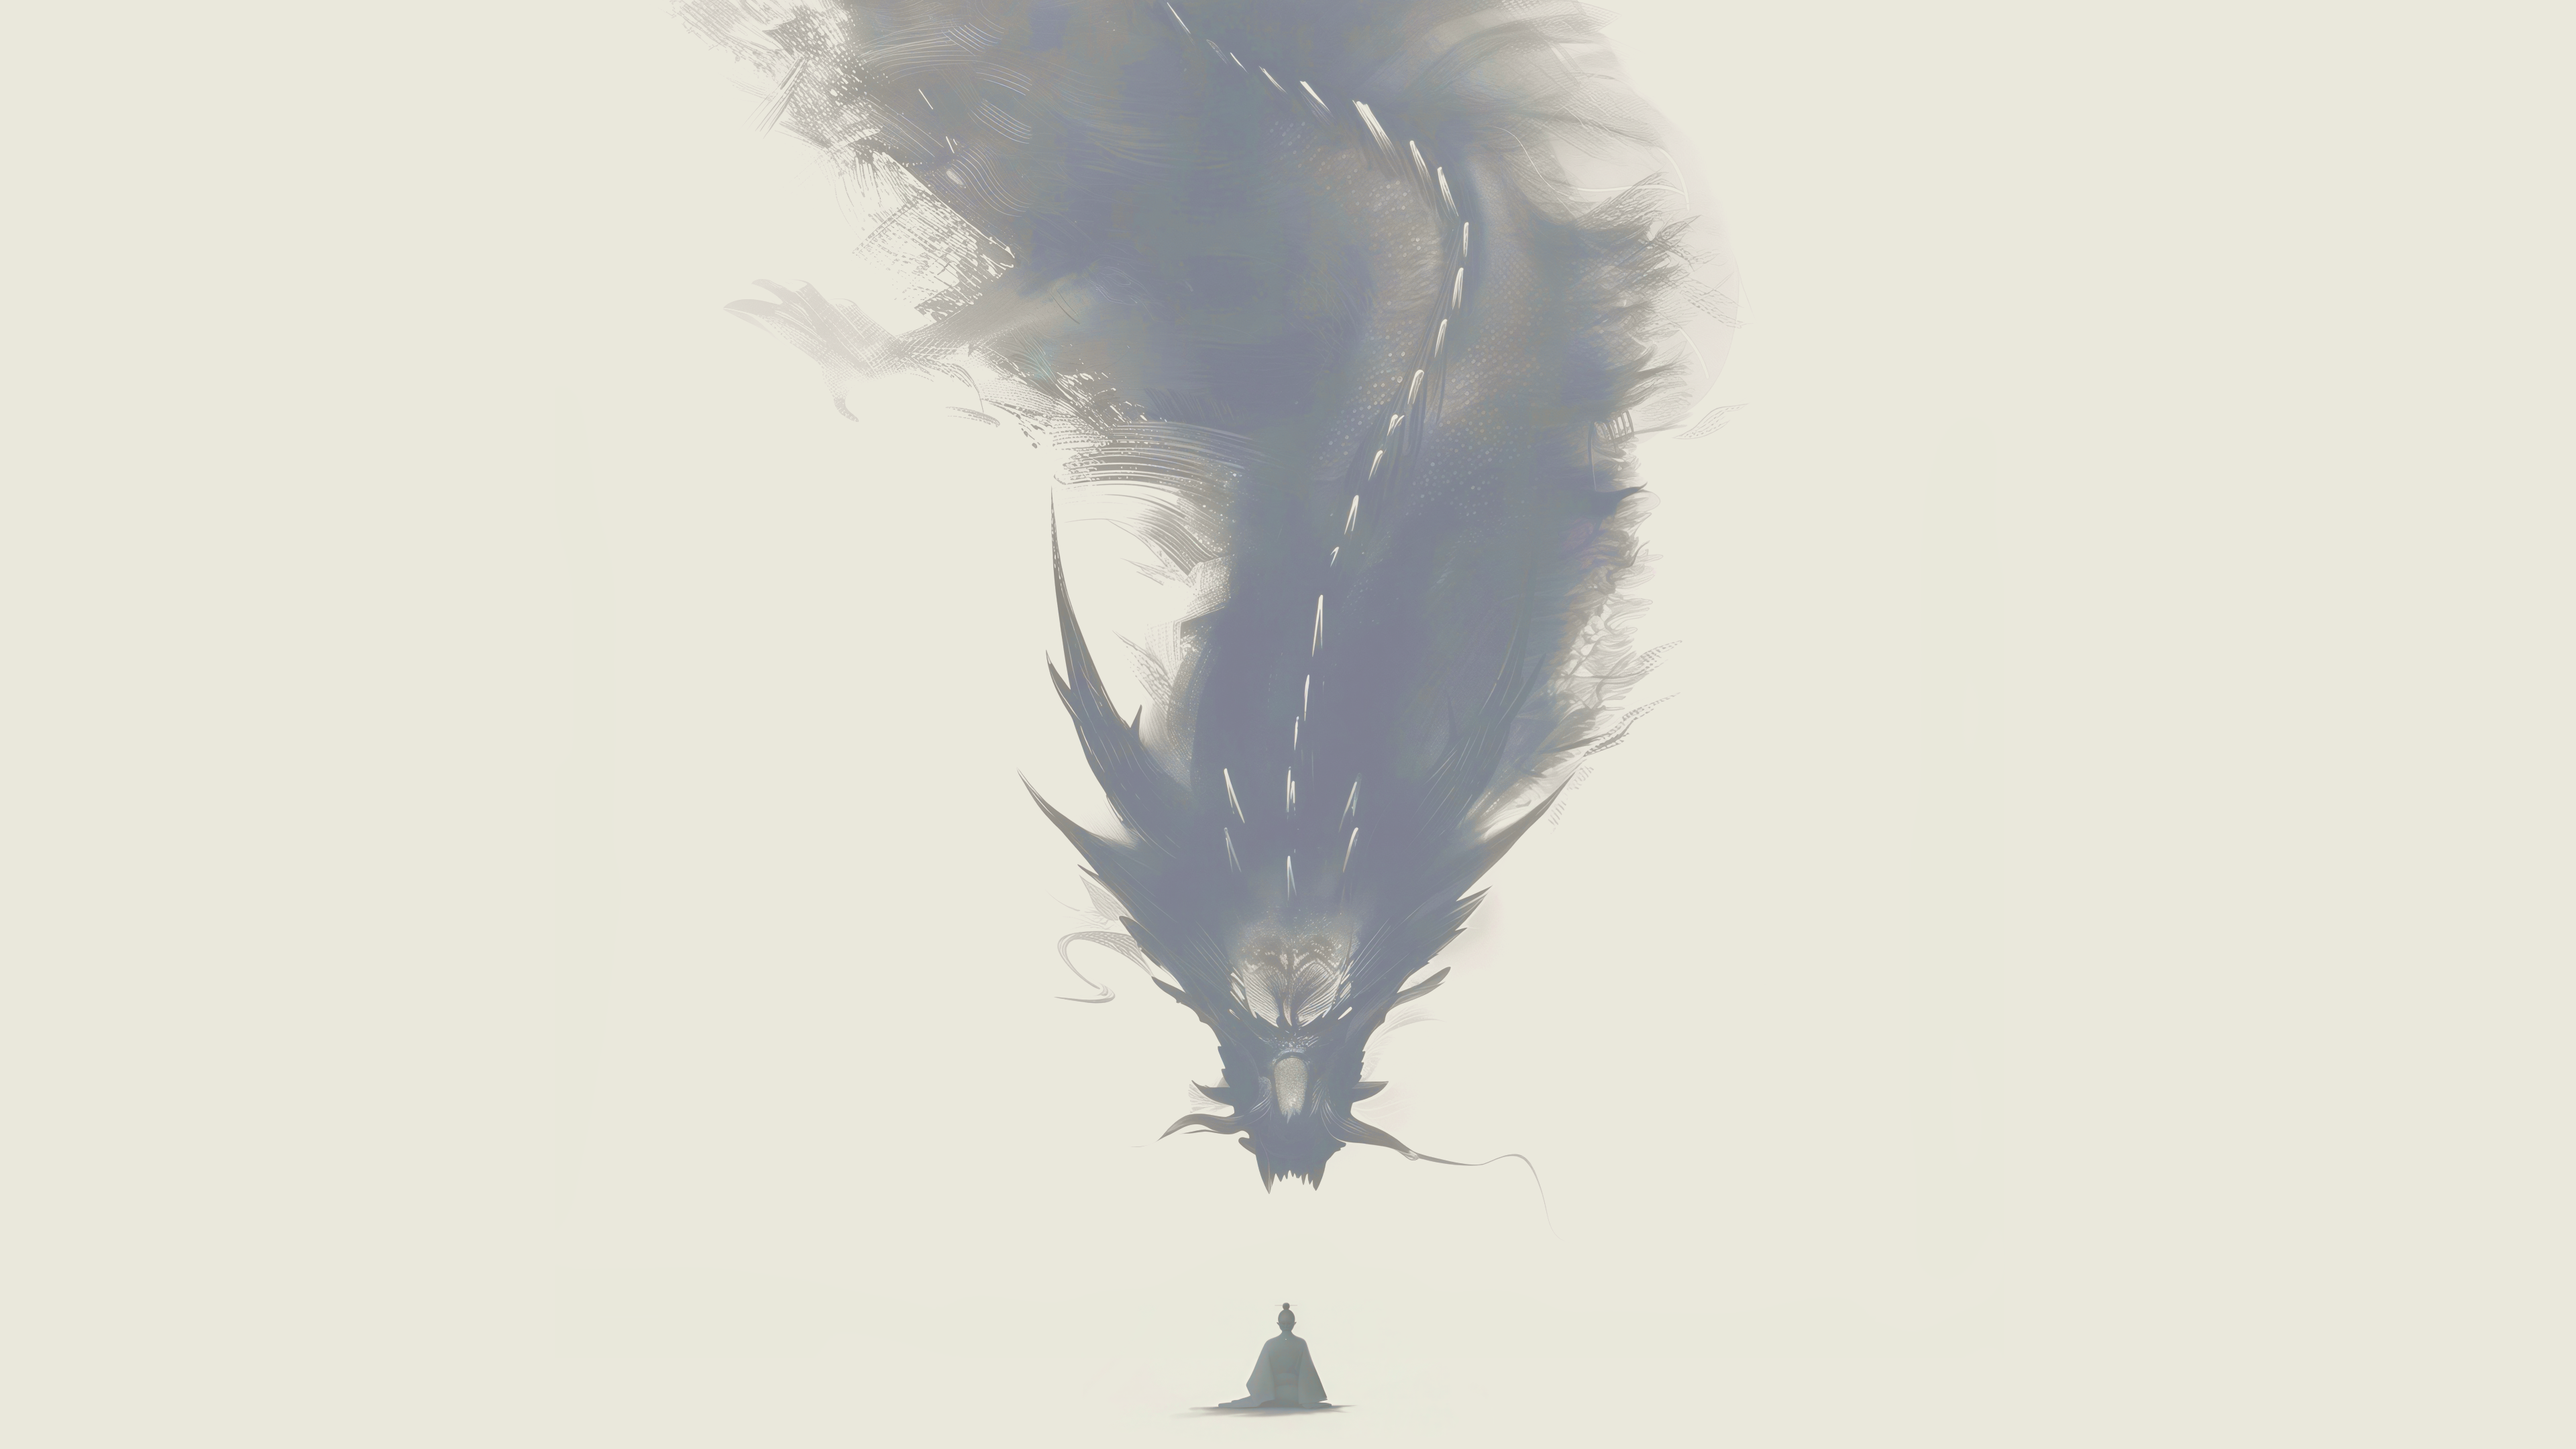
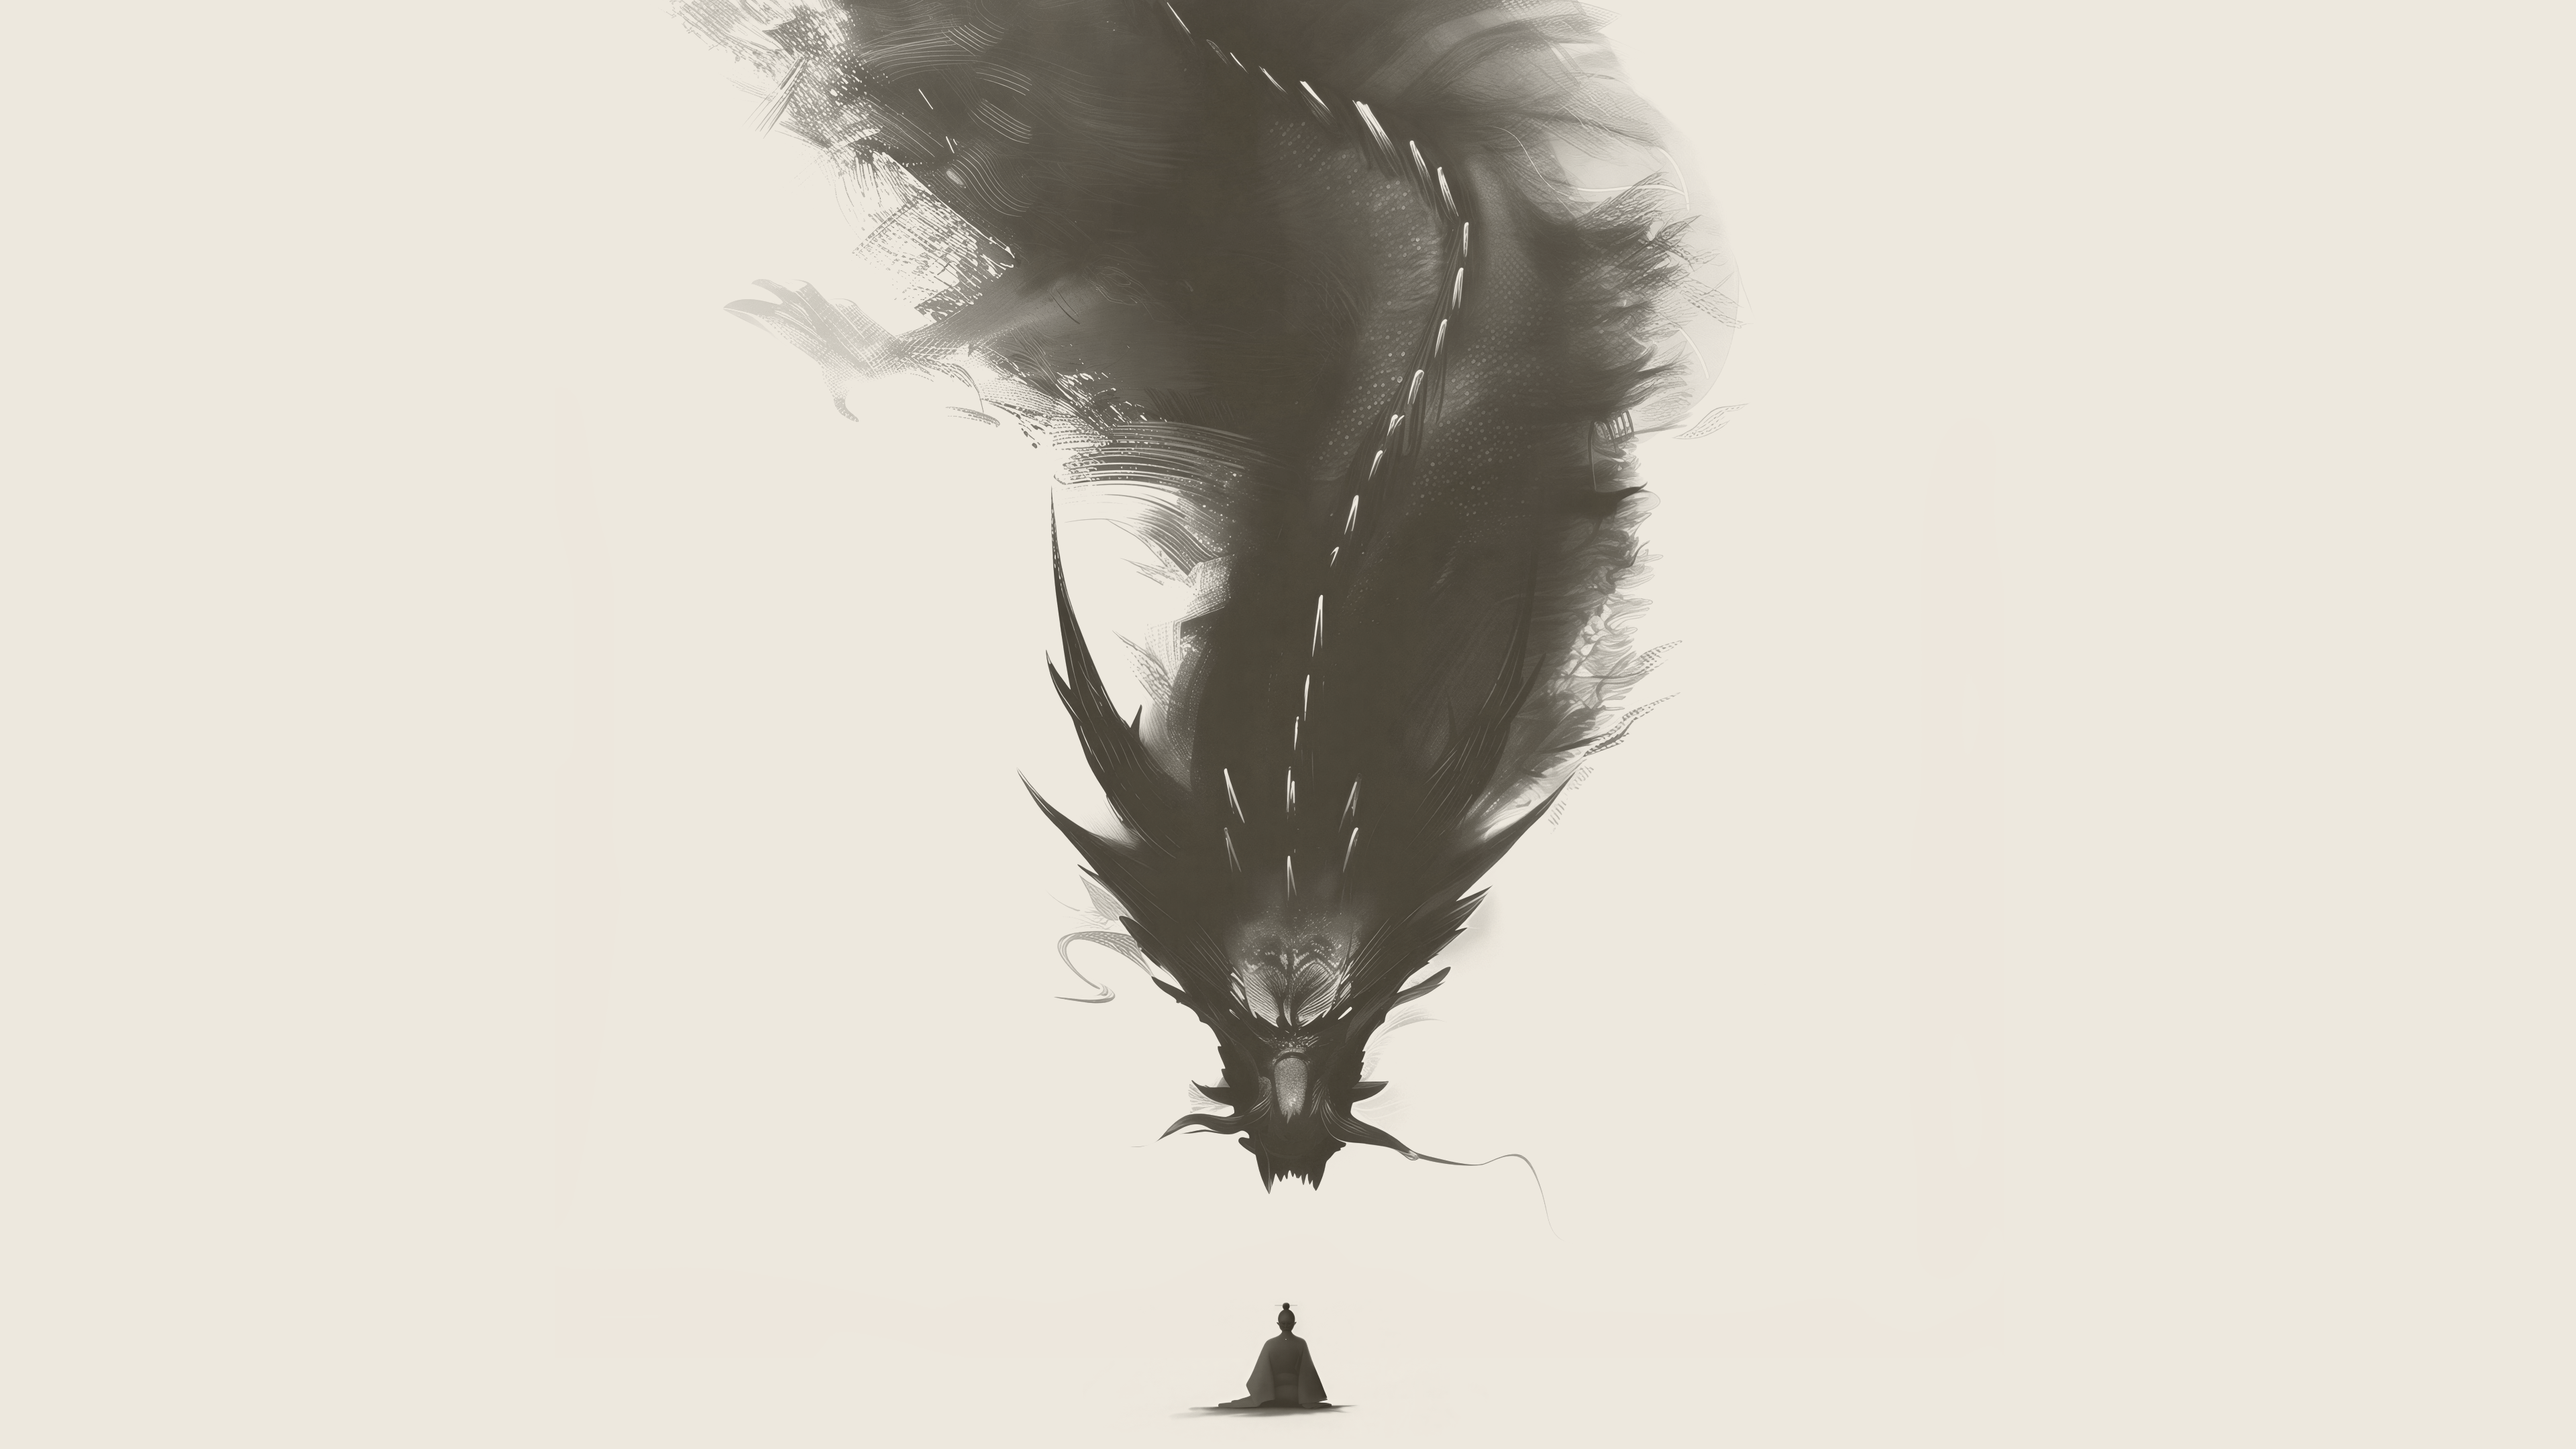
wallpapers: pin the paper to the window colour, the ink back to full strength

Changed region(s): [[0.2812, 0.0, 0.6562, 0.8375], [0.4688, 0.8995, 0.5312, 0.9926]]

diff --git a/README.md b/README.md
@@ -453,7 +453,7 @@ Add `--system` to install to `/usr/share/icons` instead, for every user and the
 login screen (asks for sudo); `--user` is the default.
 
 Wallpapers ship in [`backgrounds/`](backgrounds/), named `sumiday-<subject>`:
-the same five ink-wash dragons as Sumi, lifted into Sumi Day's paper tones: the roar, the dragon in cloud,
+the same five ink-wash dragons as Sumi, their paper pinned to Sumi Day's window colour: the roar, the dragon in cloud,
 a breath of smoke, a monk before the dragon and the descent, plus the
 anime portrait from the screenshot (`sumiday-anime.png`) in the palette's
 own tones. The roar (`sumiday-roar.png`) is the one in `assets/wallpaper.png`
